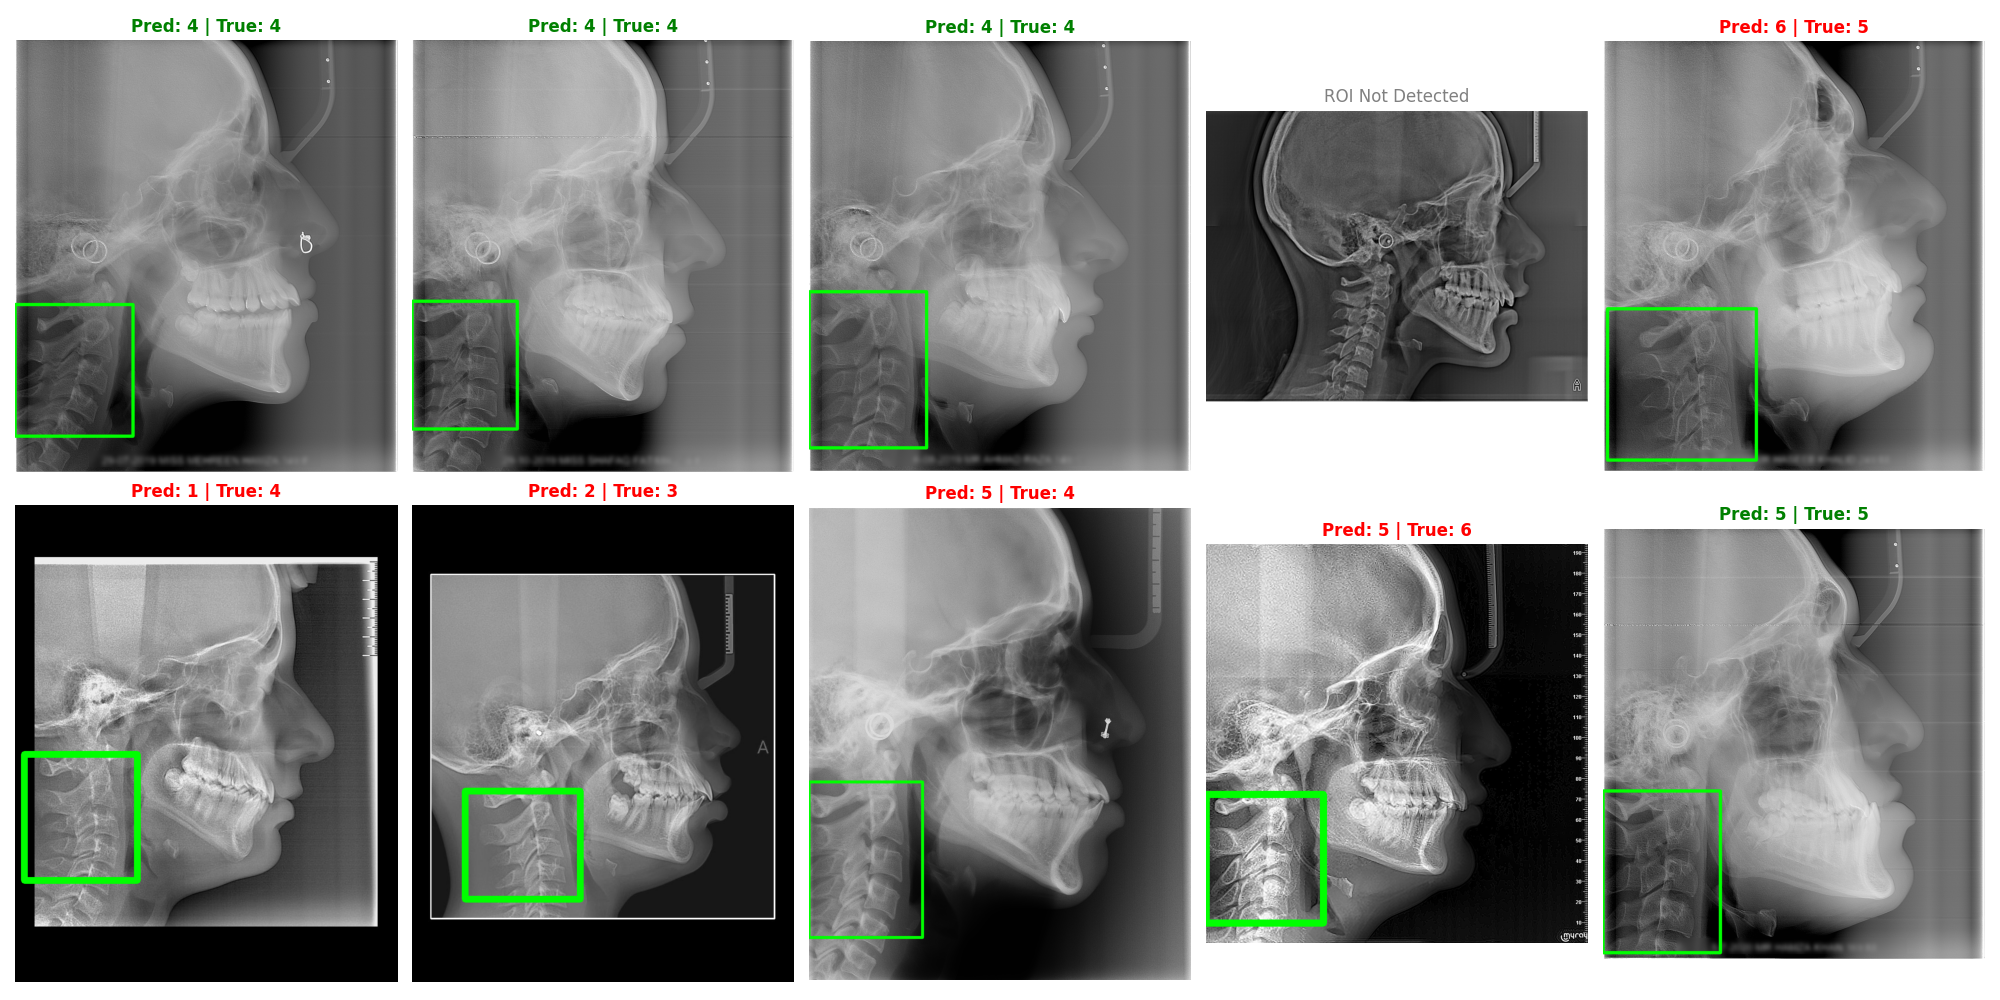
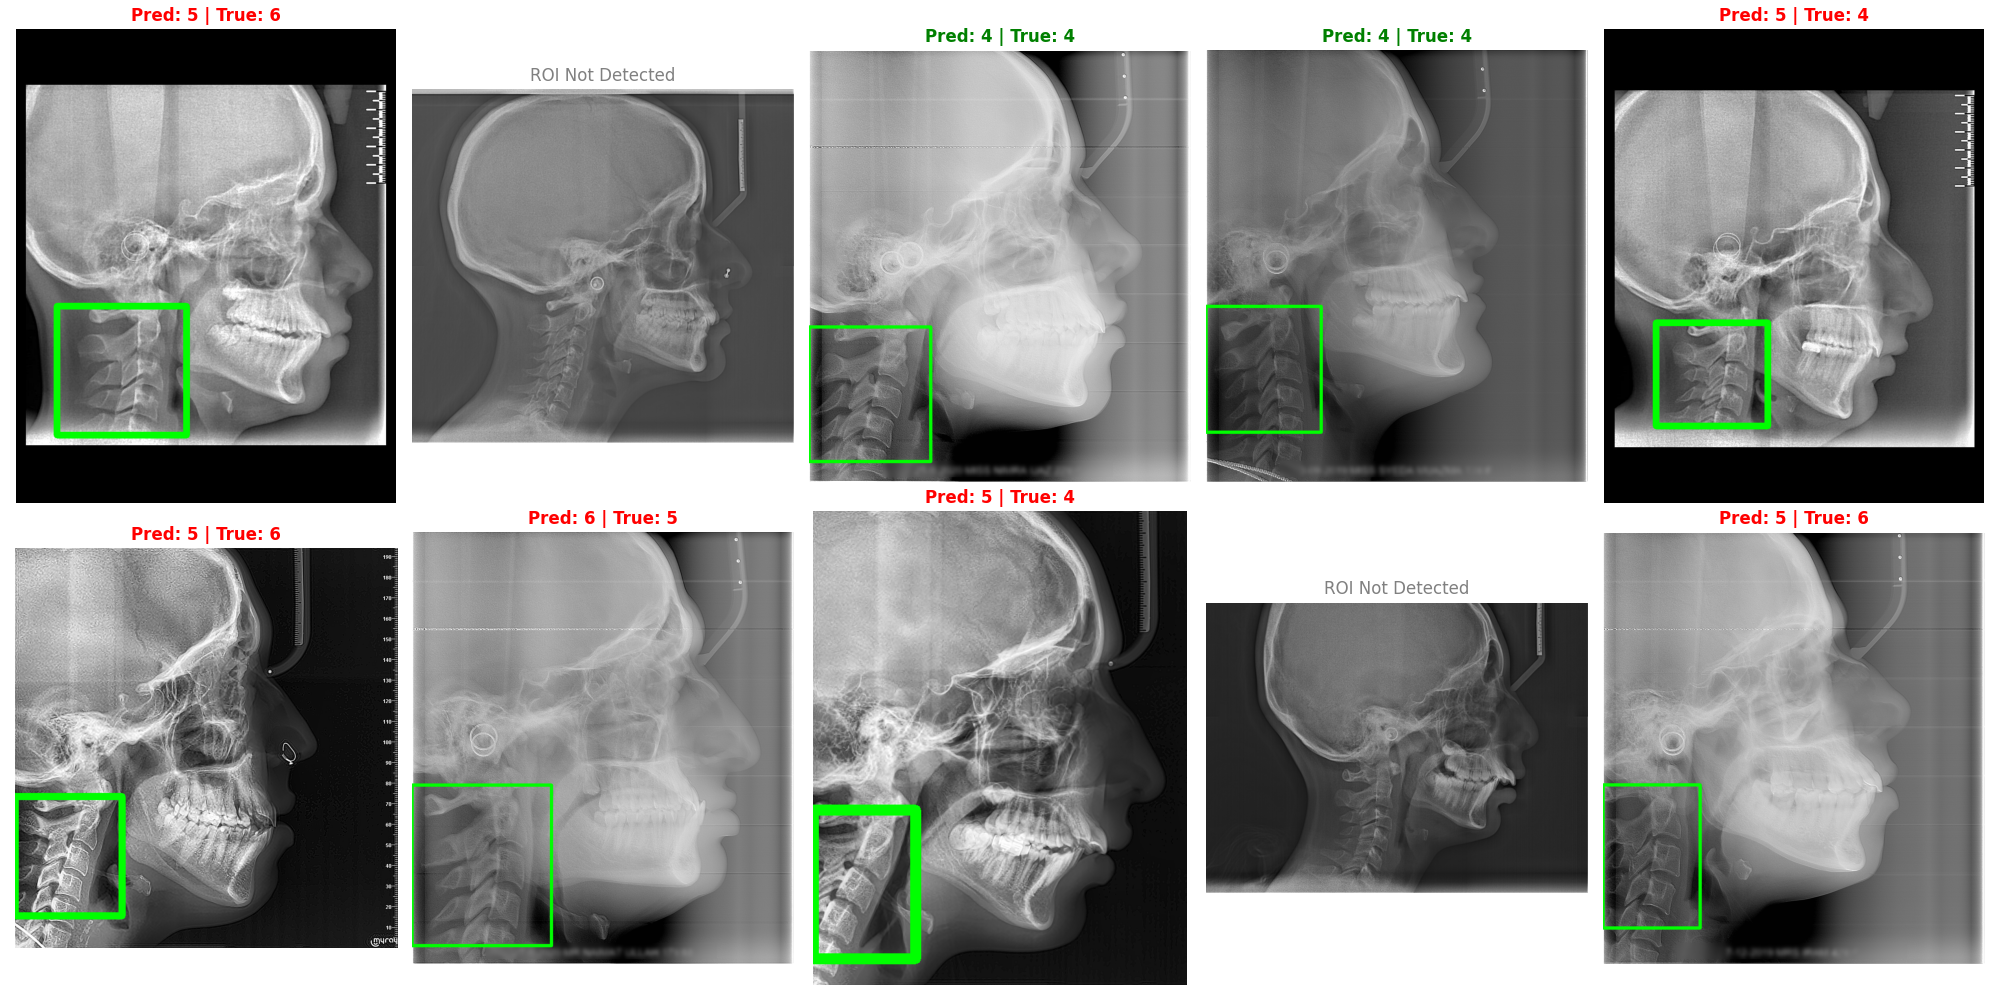
V2 고도화 학습 준비 및 프로젝트 구조 개편 완료 (RTX 5080 학습 환경 지원)

diff --git a/scripts/train_classifier_v2.py b/scripts/train_classifier_v2.py
@@ -1,0 +1,191 @@
+
+import os
+import sys
+import time
+import copy
+import pandas as pd
+from datetime import datetime
+from pathlib import Path
+from tqdm import tqdm
+from sklearn.metrics import accuracy_score, f1_score, cohen_kappa_score, mean_absolute_error
+
+import torch
+import torch.nn as nn
+import torch.optim as optim
+from torch.utils.data import DataLoader, WeightedRandomSampler
+from torchvision import datasets, transforms, models
+
+# 프로젝트 루트 경로 추가
+sys.path.append(str(Path(__file__).parent.parent))
+from src import config
+
+# --- Configuration V2 ---
+DATA_DIR = 'Aariz_CVM_Clean'
+DEVICE = torch.device("cuda" if torch.cuda.is_available() else ("mps" if torch.backends.mps.is_available() else "cpu"))
+BATCH_SIZE = 16      # RTX 5080(16GB)이라면 16~32까지 상향 가능
+EPOCHS = 100
+LEARNING_RATE = 5e-5 # 정밀 학습을 위해 기존보다 낮은 LR 설정
+NUM_CLASSES = 6
+IMG_SIZE = 768       # 512 -> 768 상향!!
+
+# Logging
+os.makedirs("training_log", exist_ok=True)
+TIMESTAMP = datetime.now().strftime("%Y%m%d_%H%M")
+LOG_FILE = f"training_log/{TIMESTAMP}_cvm_v2_768px_weighted_log.csv"
+
+# --- Model Definition (EfficientNet with CORAL) ---
+class CoralEfficientNet(nn.Module):
+    def __init__(self, num_classes=6, pretrained=True):
+        super(CoralEfficientNet, self).__init__()
+        self.backbone = models.efficientnet_b0(weights=models.EfficientNet_B0_Weights.DEFAULT if pretrained else None)
+        num_features = self.backbone.classifier[1].in_features
+        self.backbone.classifier = nn.Identity()
+        self.fc = nn.Linear(num_features, num_classes - 1, bias=False)
+        self.bias = nn.Parameter(torch.zeros(num_classes - 1))
+        
+    def forward(self, x):
+        features = self.backbone(x)
+        logits = self.fc(features) + self.bias
+        return logits
+
+def coral_loss(logits, levels):
+    val = (-torch.sum((torch.nn.functional.logsigmoid(logits)*levels
+                      + (torch.nn.functional.logsigmoid(logits) - logits)*(1-levels)), dim=1))
+    return torch.mean(val)
+
+def label_to_levels(label, num_classes):
+    levels = torch.zeros(label.size(0), num_classes - 1).to(DEVICE)
+    for i in range(label.size(0)):
+        if label[i] > 0:
+            levels[i, :label[i]] = 1
+    return levels
+
+def proba_to_label(logits):
+    probas = torch.sigmoid(logits)
+    predict_levels = probas > 0.5
+    predicted_labels = torch.sum(predict_levels, dim=1)
+    return predicted_labels
+
+# --- Weight Sampler Logic ---
+def get_weighted_sampler(dataset):
+    # 클래스별 이미지 개수 카운트
+    targets = dataset.targets
+    class_count = [0] * NUM_CLASSES
+    for t in targets:
+        class_count[t] += 1
+    
+    # 가중치 계산 (역수)
+    weights = 1. / torch.tensor(class_count, dtype=torch.float)
+    samples_weights = weights[targets]
+    
+    sampler = WeightedRandomSampler(weights=samples_weights, num_samples=len(samples_weights), replacement=True)
+    return sampler
+
+# --- Training Loop ---
+def train_model():
+    print(f"🚀 Starting CVM V2 Training on {DEVICE}...")
+    print(f"Resolution: {IMG_SIZE}px | Batch: {BATCH_SIZE} | LR: {LEARNING_RATE}")
+    
+    # 1. Data Augmentation (V2: More Geometric)
+    data_transforms = {
+        'train': transforms.Compose([
+            transforms.Resize((IMG_SIZE, IMG_SIZE)),
+            transforms.RandomAffine(degrees=15, translate=(0.1, 0.1), scale=(0.9, 1.1)),
+            transforms.RandomHorizontalFlip(),
+            transforms.ColorJitter(brightness=0.2, contrast=0.2),
+            transforms.ToTensor(),
+            transforms.Normalize([0.485, 0.456, 0.406], [0.229, 0.224, 0.225])
+        ]),
+        'valid': transforms.Compose([
+            transforms.Resize((IMG_SIZE, IMG_SIZE)),
+            transforms.ToTensor(),
+            transforms.Normalize([0.485, 0.456, 0.406], [0.229, 0.224, 0.225])
+        ]),
+    }
+
+    # 2. Datasets
+    image_datasets = {x: datasets.ImageFolder(os.path.join(DATA_DIR, x), data_transforms[x]) 
+                      for x in ['train', 'valid']}
+    
+    # 학습셋 전용 Sampler 생성 (불균형 해결)
+    train_sampler = get_weighted_sampler(image_datasets['train'])
+    
+    dataloaders = {
+        'train': DataLoader(image_datasets['train'], batch_size=BATCH_SIZE, sampler=train_sampler, num_workers=4),
+        'valid': DataLoader(image_datasets['valid'], batch_size=BATCH_SIZE, shuffle=False, num_workers=4)
+    }
+    
+    dataset_sizes = {x: len(image_datasets[x]) for x in ['train', 'valid']}
+    print(f"Dataset sizes: {dataset_sizes}")
+
+    # 3. Model & Optimizer
+    model = CoralEfficientNet(num_classes=NUM_CLASSES).to(DEVICE)
+    optimizer = optim.AdamW(model.parameters(), lr=LEARNING_RATE, weight_decay=5e-4) # Regularization 강화
+    scheduler = optim.lr_scheduler.ReduceLROnPlateau(optimizer, mode='min', factor=0.5, patience=8)
+
+    # 4. Training
+    best_kappa = -1.0
+    
+    with open(LOG_FILE, 'w') as f:
+        f.write("Epoch,Train_Loss,Valid_Loss,Valid_Kappa,Valid_Acc,LR\n")
+        
+    print("-" * 60)
+    
+    for epoch in range(EPOCHS):
+        current_lr = optimizer.param_groups[0]['lr']
+        
+        for phase in ['train', 'valid']:
+            if phase == 'train':
+                model.train()
+            else:
+                model.eval()
+            
+            running_loss = 0.0
+            all_preds, all_labels = [], []
+            
+            pbar = tqdm(dataloaders[phase], desc=f"Epoch {epoch+1}/{EPOCHS} [{phase}]", leave=False)
+            
+            for inputs, labels in pbar:
+                inputs, labels = inputs.to(DEVICE), labels.to(DEVICE)
+                optimizer.zero_grad()
+                
+                with torch.set_grad_enabled(phase == 'train'):
+                    logits = model(inputs)
+                    levels = label_to_levels(labels, NUM_CLASSES)
+                    loss = coral_loss(logits, levels)
+                    
+                    if phase == 'train':
+                        loss.backward()
+                        optimizer.step()
+                        
+                running_loss += loss.item() * inputs.size(0)
+                preds = proba_to_label(logits)
+                all_preds.extend(preds.cpu().numpy())
+                all_labels.extend(labels.cpu().numpy())
+                pbar.set_postfix({'loss': f"{loss.item():.4f}"})
+            
+            epoch_loss = running_loss / dataset_sizes[phase]
+            epoch_kappa = cohen_kappa_score(all_labels, all_preds, weights='quadratic')
+            epoch_acc = accuracy_score(all_labels, all_preds)
+
+            if phase == 'train':
+                train_loss, train_kappa = epoch_loss, epoch_kappa
+            else:
+                valid_loss, valid_kappa, valid_acc = epoch_loss, epoch_kappa, epoch_acc
+                scheduler.step(valid_loss)
+                
+                # Save Best (파일 이름 구분)
+                if valid_kappa > best_kappa:
+                    best_kappa = valid_kappa
+                    torch.save(model.state_dict(), f"checkpoints/best_cvm_v2_768px.pth")
+                    print(f"  🌟 New Best (Valid Kappa): {best_kappa:.4f} (Saved as v2_768px)")
+
+        print(f"E{epoch+1:02d} | T-Loss: {train_loss:.4f} | V-Loss: {valid_loss:.4f} | V-Kap: {valid_kappa:.4f} | V-Acc: {valid_acc:.4f} | LR: {current_lr:.6f}")
+        
+        with open(LOG_FILE, 'a') as f:
+            f.write(f"{epoch+1},{train_loss},{valid_loss},{valid_kappa},{valid_acc},{current_lr}\n")
+
+    print(f"🎉 V2 Training Complete! Best Valid Kappa: {best_kappa:.4f}")
+
+if __name__ == '__main__':
+    train_model()

diff --git a/analysis/analyze_distribution.py b/analysis/analyze_distribution.py
@@ -1,0 +1,51 @@
+
+import os
+import matplotlib.pyplot as plt
+import pandas as pd
+
+def analyze_dataset(root_dir):
+    data = []
+    splits = ['train', 'valid', 'test']
+    classes = sorted([d for d in os.listdir(os.path.join(root_dir, 'train')) if os.path.isdir(os.path.join(root_dir, 'train', d))])
+    
+    for split in splits:
+        counts = {}
+        for cls in classes:
+            path = os.path.join(root_dir, split, cls)
+            if os.path.exists(path):
+                counts[cls] = len(os.listdir(path))
+            else:
+                counts[cls] = 0
+        data.append(counts)
+    
+    df = pd.DataFrame(data, index=splits).T
+    df.index.name = 'Stage'
+    return df
+
+def plot_distribution(df):
+    ax = df.plot(kind='bar', figsize=(10, 6), width=0.8)
+    plt.title('CVM Stage Distribution (Clean ROI Dataset)', fontsize=15)
+    plt.xlabel('CVM Stage', fontsize=12)
+    plt.ylabel('Number of Images', fontsize=12)
+    plt.xticks(rotation=0)
+    plt.grid(axis='y', linestyle='--', alpha=0.7)
+    
+    # Add values on top of bars
+    for p in ax.patches:
+        ax.annotate(str(int(p.get_height())), (p.get_x() + p.get_width()/2., p.get_height()),
+                    ha='center', va='center', xytext=(0, 5), textcoords='offset points')
+    
+    plt.tight_layout()
+    plt.savefig('distribution_analysis.png')
+    print("Distribution plot saved as 'distribution_analysis.png'")
+
+if __name__ == '__main__':
+    DATA_DIR = 'Aariz_CVM_Clean'
+    if os.path.exists(DATA_DIR):
+        distribution_df = analyze_dataset(DATA_DIR)
+        print("\n--- Dataset Distribution Table ---")
+        print(distribution_df)
+        print("-" * 35)
+        plot_distribution(distribution_df)
+    else:
+        print(f"Error: Directory '{DATA_DIR}' not found. Please run prepare_classification_data.py first.")

diff --git a/README.md b/README.md
@@ -22,12 +22,26 @@
 
 ---
 
+## 📂 프로젝트 구조 (Project Structure)
+
+본 프로젝트는 유지보수와 전문적인 개발 환경을 위해 다음과 같이 체계적으로 구조화되어 있습니다.
+
+- **`src/`**: 핵심 소스 코드. 모델 정의, 데이터셋 로드 로직 등 (백엔드 엔진)
+- **`scripts/`**: 실행용 스크립트. 데이터 전처리, YOLO/Classifier 학습 (작업 공정)
+- **`tools/`**: 실무용 엔드포인트 도구. 통합 인퍼런스(`inference.py`), 라벨링 툴 (최종 제품)
+- **`analysis/`**: 데이터 분석 및 시각화 도구. 분포 분석, Attention 분석, 고급 시각화
+- **`docs/`**: 프로젝트 기록관. 개발 일지(`development_log.txt`), 전략 기획서, 메모
+- **`checkpoints/`**: 학습된 모델 가중치 파일 (.pth, .pt) 저장소
+- **`archive/`**: 과거 실험 코드 및 참고용 구버전 스크립트 보관소
+
+---
+
 ## 🛠️ 주요 기능 및 사용법
 
 ### 1. 통합 분석 (Inference)
 이미지 한 장으로 경추 검출과 CVM 단계 판독을 동시에 수행합니다.
 ```bash
-python inference.py
+python tools/inference.py
 ```
 - 테스트 세트에서 랜덤으로 샘플을 추출하여 시각화 결과(`inference_results.png`)를 생성합니다.
 
@@ -36,16 +50,16 @@ python inference.py
 
 1. **ROI 라벨링**: YOLO 학습을 위한 경추 영역 박싱 (180장 완료)
    ```bash
-   python labeling_tool.py
+   python tools/labeling_tool.py
    ```
 2. **Detector 학습**: YOLOv8를 이용한 경추 검출기 학습
    ```bash
-   python train_yolo.py
+   python scripts/train_yolo.py
    ```
 3. **Classifier 학습**: 검출된 ROI를 이용한 EfficientNet 분류기 학습
    ```bash
-   python prepare_classification_data.py
-   python train_classifier.py
+   python scripts/prepare_classification_data.py
+   python scripts/train_classifier.py
    ```
 
 ---